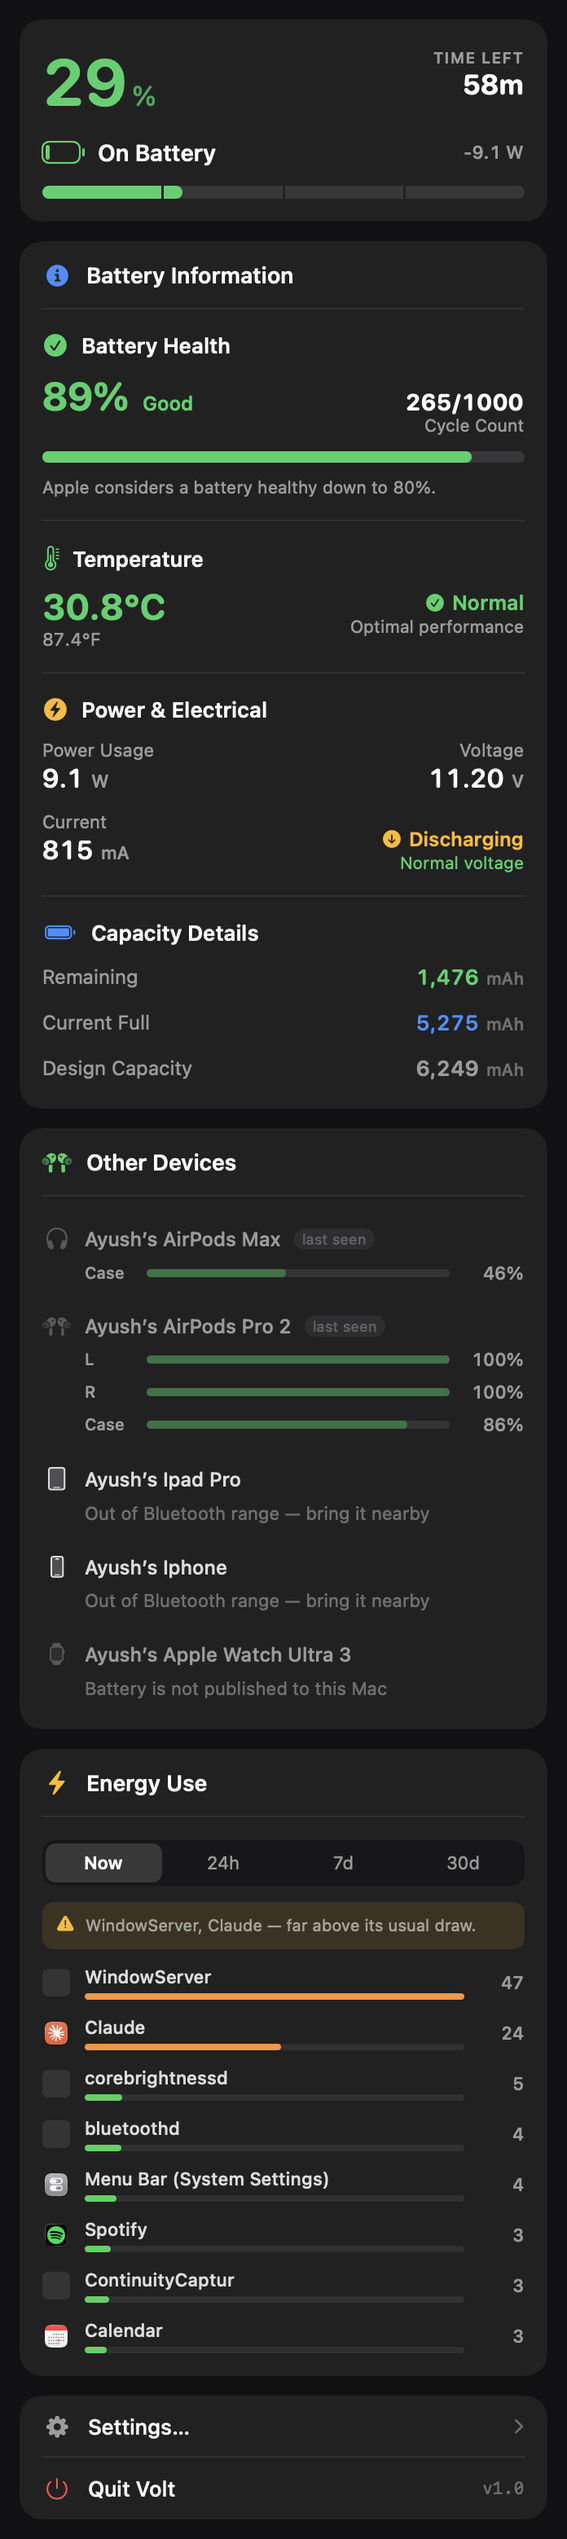
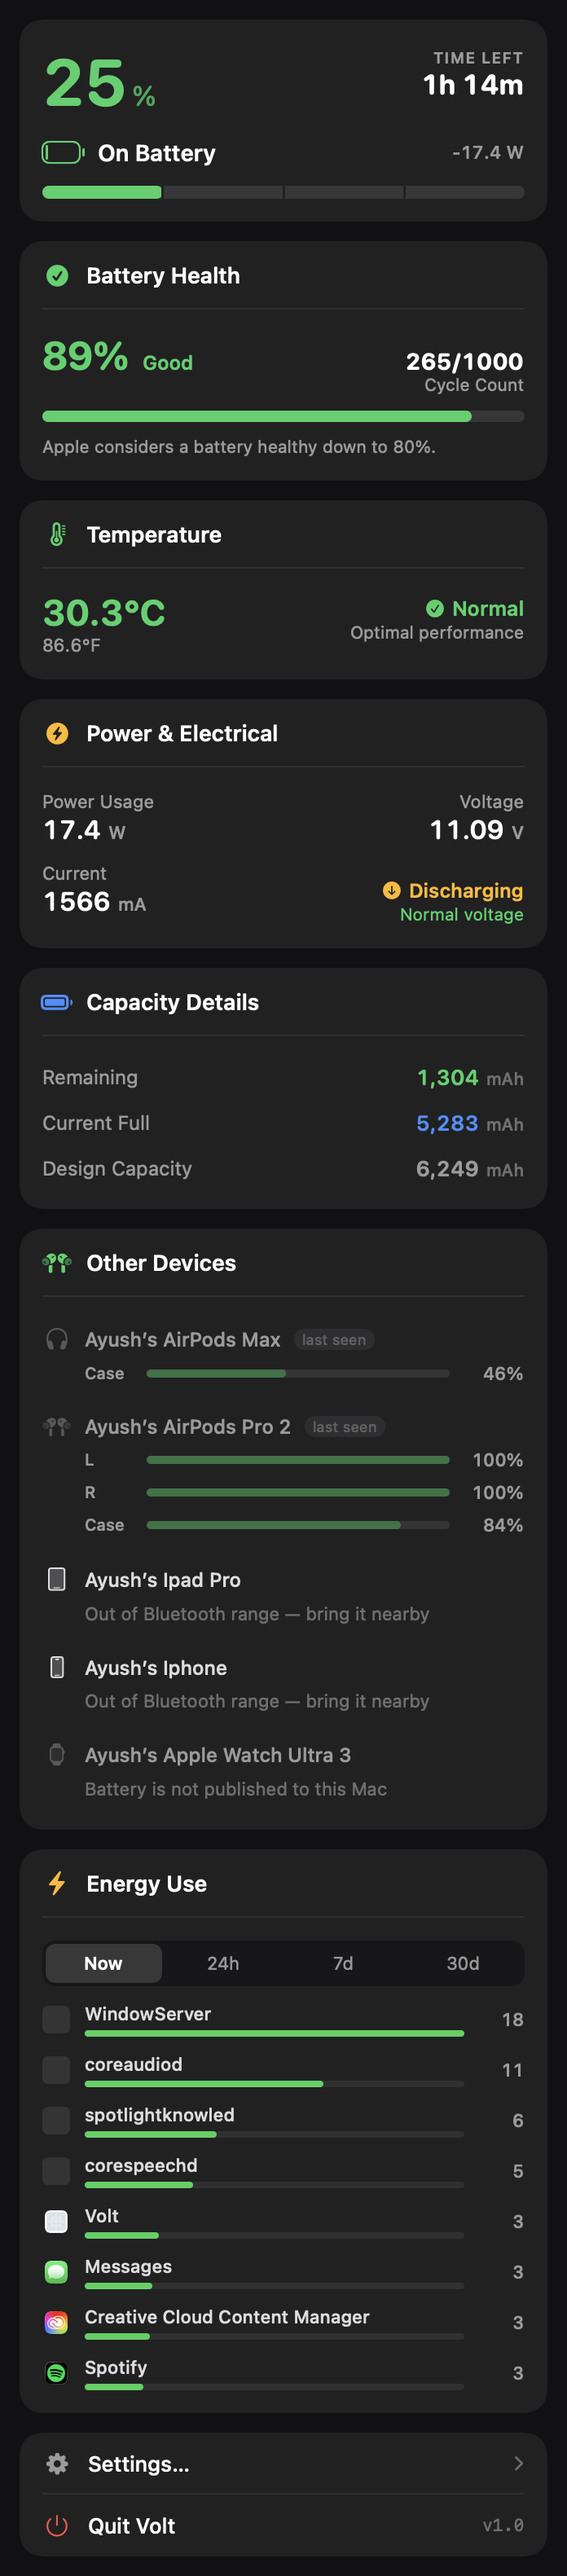
Split battery information into separate panels
Health, temperature, power and capacity were divided sub-sections
inside one "Battery Information" container. Each is its own panel now,
with its own header, matching how devices and energy already read.

diff --git a/Volt/UI/PopoverView.swift b/Volt/UI/PopoverView.swift
@@ -29,7 +29,10 @@ struct PopoverView: View {
         ScrollView {
             VStack(spacing: 12) {
                 StatusCard(snapshot: battery.snapshot)
-                InfoCard(snapshot: battery.snapshot)
+                HealthCard(snapshot: battery.snapshot)
+                TemperatureCard(snapshot: battery.snapshot)
+                PowerCard(snapshot: battery.snapshot)
+                CapacityCard(snapshot: battery.snapshot)
 
                 if prefs.trackDeviceBatteries {
                     DevicesCard(devices: devices.devices)
@@ -147,7 +150,9 @@ struct StatusCard: View {
 
 // MARK: - Battery information
 
-struct InfoCard: View {
+/// Health, temperature, power and capacity each get their own panel rather than
+/// sitting as divided sub-sections inside one "Battery Information" container.
+struct HealthCard: View {
     let snapshot: BatterySnapshot
 
     /// Apple's own "Maximum Capacity" when macOS has reported it, otherwise the
@@ -156,7 +161,7 @@ struct InfoCard: View {
         snapshot.appleMaxCapacity ?? snapshot.healthPercent.map { Int($0.rounded()) }
     }
 
-    private var healthGrade: (String, Color, String) {
+    private var grade: (String, Color, String) {
         switch health ?? 100 {
         case 90...: return ("Excellent", Panel.green, "Nothing to do — this battery is in great shape.")
         case 80..<90: return ("Good", Panel.green, "Apple considers a battery healthy down to 80%.")
@@ -165,7 +170,54 @@ struct InfoCard: View {
         }
     }
 
-    private var temperatureGrade: (String, Color, String) {
+    var body: some View {
+        let (label, tint, advice) = grade
+        Card {
+            SectionHeader(symbol: (health ?? 100) >= 80 ? "checkmark.circle.fill"
+                                                        : "exclamationmark.triangle.fill",
+                          tint: tint, title: "Battery Health")
+                .sectionDivider()
+
+            VStack(alignment: .leading, spacing: 9) {
+                HStack(alignment: .firstTextBaseline) {
+                    Text(health.map { "\($0)%" } ?? "—")
+                        .font(.system(size: 24, weight: .bold, design: .rounded))
+                        .monospacedDigit()
+                        .foregroundStyle(tint)
+                    Text(label)
+                        .font(.system(size: 12, weight: .semibold))
+                        .foregroundStyle(tint)
+
+                    Spacer()
+
+                    VStack(alignment: .trailing, spacing: 0) {
+                        Text("\(grouped(snapshot.cycleCount))/1000")
+                            .font(.system(size: 14, weight: .bold, design: .rounded))
+                            .monospacedDigit()
+                            .foregroundStyle(Panel.label)
+                        Text("Cycle Count")
+                            .font(.system(size: 10.5))
+                            .foregroundStyle(Panel.secondary)
+                    }
+                }
+
+                MeterBar(fraction: Double(health ?? 0) / 100, tint: tint)
+
+                Text(snapshot.condition.map {
+                    $0.lowercased() == "normal" ? advice : "macOS reports: \($0)"
+                } ?? advice)
+                    .font(.system(size: 10.5))
+                    .foregroundStyle(Panel.secondary)
+            }
+            .padding(14)
+        }
+    }
+}
+
+struct TemperatureCard: View {
+    let snapshot: BatterySnapshot
+
+    private var grade: (String, Color, String) {
         switch snapshot.temperatureC {
         case ..<35: return ("Normal", Panel.green, "Optimal performance")
         case 35..<40: return ("Warm", Panel.amber, "Still within range")
@@ -174,74 +226,10 @@ struct InfoCard: View {
     }
 
     var body: some View {
+        let (label, tint, detail) = grade
         Card {
-            SectionHeader(symbol: "info.circle.fill", tint: Panel.blue,
-                          title: "Battery Information")
+            SectionHeader(symbol: "thermometer.medium", tint: tint, title: "Temperature")
                 .sectionDivider()
-
-            healthSection.padding(14).sectionDivider()
-            temperatureSection.padding(14).sectionDivider()
-            powerSection.padding(14).sectionDivider()
-            capacitySection.padding(14)
-        }
-    }
-
-    private var healthSection: some View {
-        let (grade, tint, advice) = healthGrade
-        return VStack(alignment: .leading, spacing: 9) {
-            HStack(spacing: 8) {
-                Image(systemName: (health ?? 100) >= 80 ? "checkmark.circle.fill"
-                                                        : "exclamationmark.triangle.fill")
-                    .font(.system(size: 14))
-                    .foregroundStyle(tint)
-                Text("Battery Health")
-                    .font(.system(size: 13, weight: .semibold))
-                    .foregroundStyle(Panel.label)
-                Spacer()
-            }
-
-            HStack(alignment: .firstTextBaseline) {
-                Text(health.map { "\($0)%" } ?? "—")
-                    .font(.system(size: 24, weight: .bold, design: .rounded))
-                    .monospacedDigit()
-                    .foregroundStyle(tint)
-                Text(grade)
-                    .font(.system(size: 12, weight: .semibold))
-                    .foregroundStyle(tint)
-
-                Spacer()
-
-                VStack(alignment: .trailing, spacing: 0) {
-                    Text("\(grouped(snapshot.cycleCount))/1000")
-                        .font(.system(size: 14, weight: .bold, design: .rounded))
-                        .monospacedDigit()
-                        .foregroundStyle(Panel.label)
-                    Text("Cycle Count")
-                        .font(.system(size: 10.5))
-                        .foregroundStyle(Panel.secondary)
-                }
-            }
-
-            MeterBar(fraction: Double(health ?? 0) / 100, tint: tint)
-
-            Text(snapshot.condition.map { $0.lowercased() == "normal" ? advice : "macOS reports: \($0)" } ?? advice)
-                .font(.system(size: 10.5))
-                .foregroundStyle(Panel.secondary)
-        }
-    }
-
-    private var temperatureSection: some View {
-        let (grade, tint, detail) = temperatureGrade
-        return VStack(alignment: .leading, spacing: 8) {
-            HStack(spacing: 8) {
-                Image(systemName: "thermometer.medium")
-                    .font(.system(size: 14))
-                    .foregroundStyle(tint)
-                Text("Temperature")
-                    .font(.system(size: 13, weight: .semibold))
-                    .foregroundStyle(Panel.label)
-                Spacer()
-            }
 
             HStack(alignment: .top) {
                 VStack(alignment: .leading, spacing: 0) {
@@ -259,9 +247,8 @@ struct InfoCard: View {
 
                 VStack(alignment: .trailing, spacing: 1) {
                     HStack(spacing: 4) {
-                        Image(systemName: "checkmark.circle.fill")
-                            .font(.system(size: 11))
-                        Text(grade).font(.system(size: 12.5, weight: .semibold))
+                        Image(systemName: "checkmark.circle.fill").font(.system(size: 11))
+                        Text(label).font(.system(size: 12.5, weight: .semibold))
                     }
                     .foregroundStyle(tint)
                     Text(detail)
@@ -270,82 +257,85 @@ struct InfoCard: View {
                 }
                 .padding(.top, 3)
             }
-        }
-    }
-
-    private var powerSection: some View {
-        VStack(alignment: .leading, spacing: 10) {
-            HStack(spacing: 8) {
-                Image(systemName: "bolt.circle.fill")
-                    .font(.system(size: 14))
-                    .foregroundStyle(Panel.amber)
-                Text("Power & Electrical")
-                    .font(.system(size: 13, weight: .semibold))
-                    .foregroundStyle(Panel.label)
-                Spacer()
-            }
-
-            HStack(alignment: .top) {
-                StatBlock(label: "Power Usage",
-                          value: String(format: "%.1f", abs(snapshot.watts)), unit: "W")
-                StatBlock(label: "Voltage",
-                          value: String(format: "%.2f", snapshot.voltage), unit: "V",
-                          alignment: .trailing)
-            }
-
-            HStack(alignment: .top) {
-                StatBlock(label: "Current",
-                          value: "\(abs(Int(snapshot.amperage * 1000)))", unit: "mA")
-
-                VStack(alignment: .trailing, spacing: 1) {
-                    HStack(spacing: 4) {
-                        Image(systemName: snapshot.isCharging ? "arrow.up.circle.fill"
-                                                              : "arrow.down.circle.fill")
-                            .font(.system(size: 11))
-                        Text(snapshot.isCharging ? "Charging"
-                                                 : (snapshot.isPluggedIn ? "Holding" : "Discharging"))
-                            .font(.system(size: 12, weight: .semibold))
-                    }
-                    .foregroundStyle(snapshot.isCharging ? Panel.green : Panel.amber)
-
-                    if let watts = snapshot.adapterWatts, snapshot.isPluggedIn {
-                        Text("\(watts)W adapter")
-                            .font(.system(size: 10.5))
-                            .foregroundStyle(Panel.secondary)
-                    } else {
-                        Text("Normal voltage")
-                            .font(.system(size: 10.5))
-                            .foregroundStyle(Panel.green)
-                    }
-                }
-                .frame(maxWidth: .infinity, alignment: .trailing)
-                .padding(.top, 10)
-            }
-        }
-    }
-
-    private var capacitySection: some View {
-        VStack(alignment: .leading, spacing: 6) {
-            HStack(spacing: 8) {
-                Image(systemName: "battery.100percent")
-                    .font(.system(size: 13))
-                    .foregroundStyle(Panel.blue)
-                Text("Capacity Details")
-                    .font(.system(size: 13, weight: .semibold))
-                    .foregroundStyle(Panel.label)
-                Spacer()
-            }
-            .padding(.bottom, 2)
-
-            ValueRow(label: "Remaining", value: grouped(snapshot.rawCurrentCapacity),
-                     unit: "mAh", tint: Panel.green)
-            ValueRow(label: "Current Full", value: grouped(snapshot.rawMaxCapacity),
-                     unit: "mAh", tint: Panel.blue)
-            ValueRow(label: "Design Capacity", value: grouped(snapshot.designCapacity),
-                     unit: "mAh", tint: Panel.secondary)
+            .padding(14)
         }
     }
 }
+
+struct PowerCard: View {
+    let snapshot: BatterySnapshot
+
+    var body: some View {
+        Card {
+            SectionHeader(symbol: "bolt.circle.fill", tint: Panel.amber,
+                          title: "Power & Electrical")
+                .sectionDivider()
+
+            VStack(alignment: .leading, spacing: 10) {
+                HStack(alignment: .top) {
+                    StatBlock(label: "Power Usage",
+                              value: String(format: "%.1f", abs(snapshot.watts)), unit: "W")
+                    StatBlock(label: "Voltage",
+                              value: String(format: "%.2f", snapshot.voltage), unit: "V",
+                              alignment: .trailing)
+                }
+
+                HStack(alignment: .top) {
+                    StatBlock(label: "Current",
+                              value: "\(abs(Int(snapshot.amperage * 1000)))", unit: "mA")
+
+                    VStack(alignment: .trailing, spacing: 1) {
+                        HStack(spacing: 4) {
+                            Image(systemName: snapshot.isCharging ? "arrow.up.circle.fill"
+                                                                  : "arrow.down.circle.fill")
+                                .font(.system(size: 11))
+                            Text(snapshot.isCharging ? "Charging"
+                                 : (snapshot.isPluggedIn ? "Holding" : "Discharging"))
+                                .font(.system(size: 12, weight: .semibold))
+                        }
+                        .foregroundStyle(snapshot.isCharging ? Panel.green : Panel.amber)
+
+                        if let watts = snapshot.adapterWatts, snapshot.isPluggedIn {
+                            Text("\(watts)W adapter")
+                                .font(.system(size: 10.5))
+                                .foregroundStyle(Panel.secondary)
+                        } else {
+                            Text("Normal voltage")
+                                .font(.system(size: 10.5))
+                                .foregroundStyle(Panel.green)
+                        }
+                    }
+                    .frame(maxWidth: .infinity, alignment: .trailing)
+                    .padding(.top, 10)
+                }
+            }
+            .padding(14)
+        }
+    }
+}
+
+struct CapacityCard: View {
+    let snapshot: BatterySnapshot
+
+    var body: some View {
+        Card {
+            SectionHeader(symbol: "battery.100percent", tint: Panel.blue,
+                          title: "Capacity Details")
+                .sectionDivider()
+
+            VStack(alignment: .leading, spacing: 6) {
+                ValueRow(label: "Remaining", value: grouped(snapshot.rawCurrentCapacity),
+                         unit: "mAh", tint: Panel.green)
+                ValueRow(label: "Current Full", value: grouped(snapshot.rawMaxCapacity),
+                         unit: "mAh", tint: Panel.blue)
+                ValueRow(label: "Design Capacity", value: grouped(snapshot.designCapacity),
+                         unit: "mAh", tint: Panel.secondary)
+            }
+            .padding(14)
+        }
+    }
+}
+
 
 // MARK: - Accessories
 
